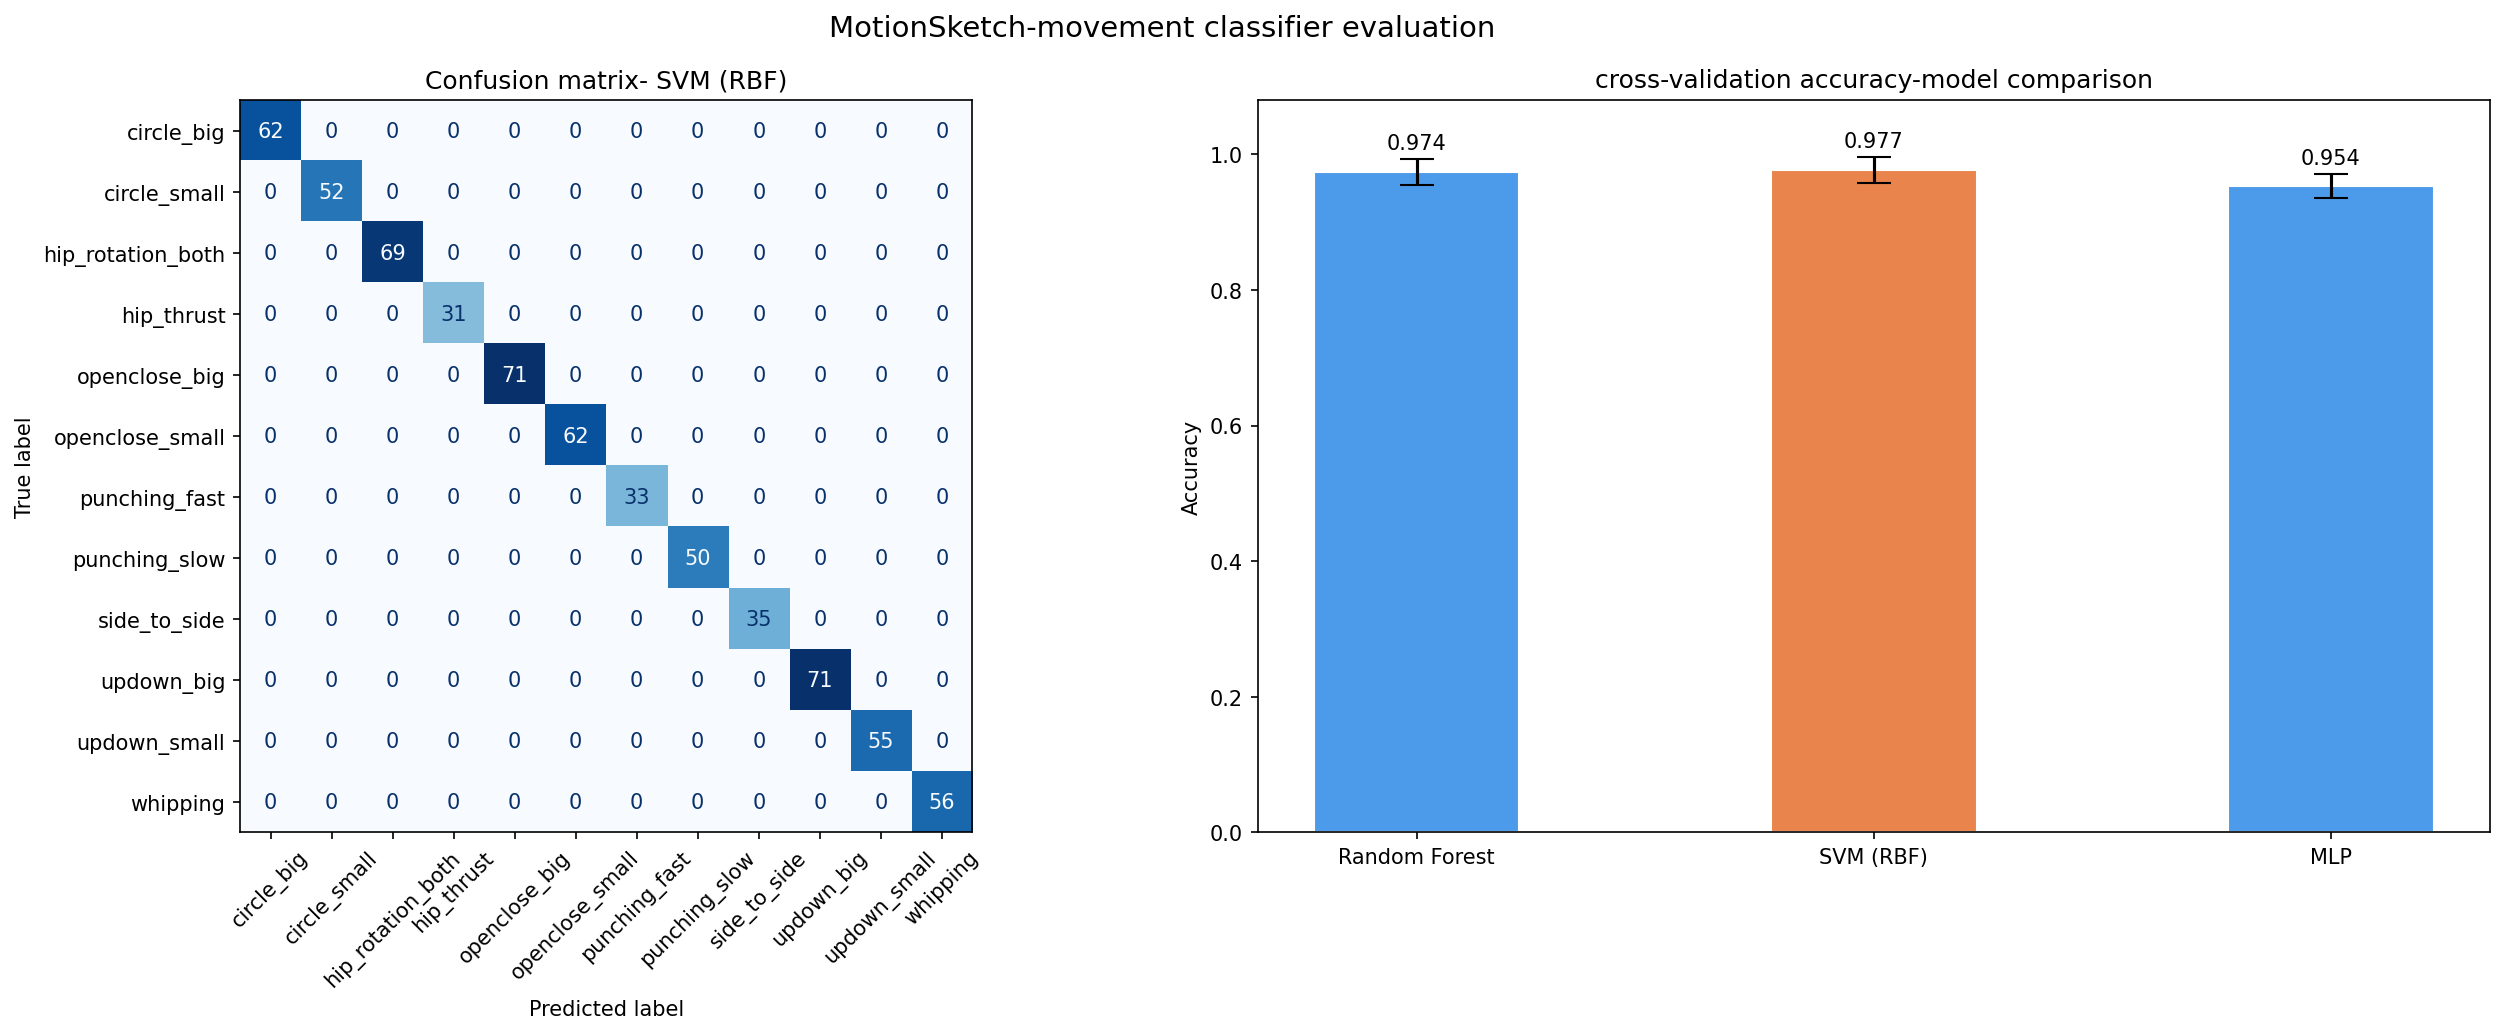
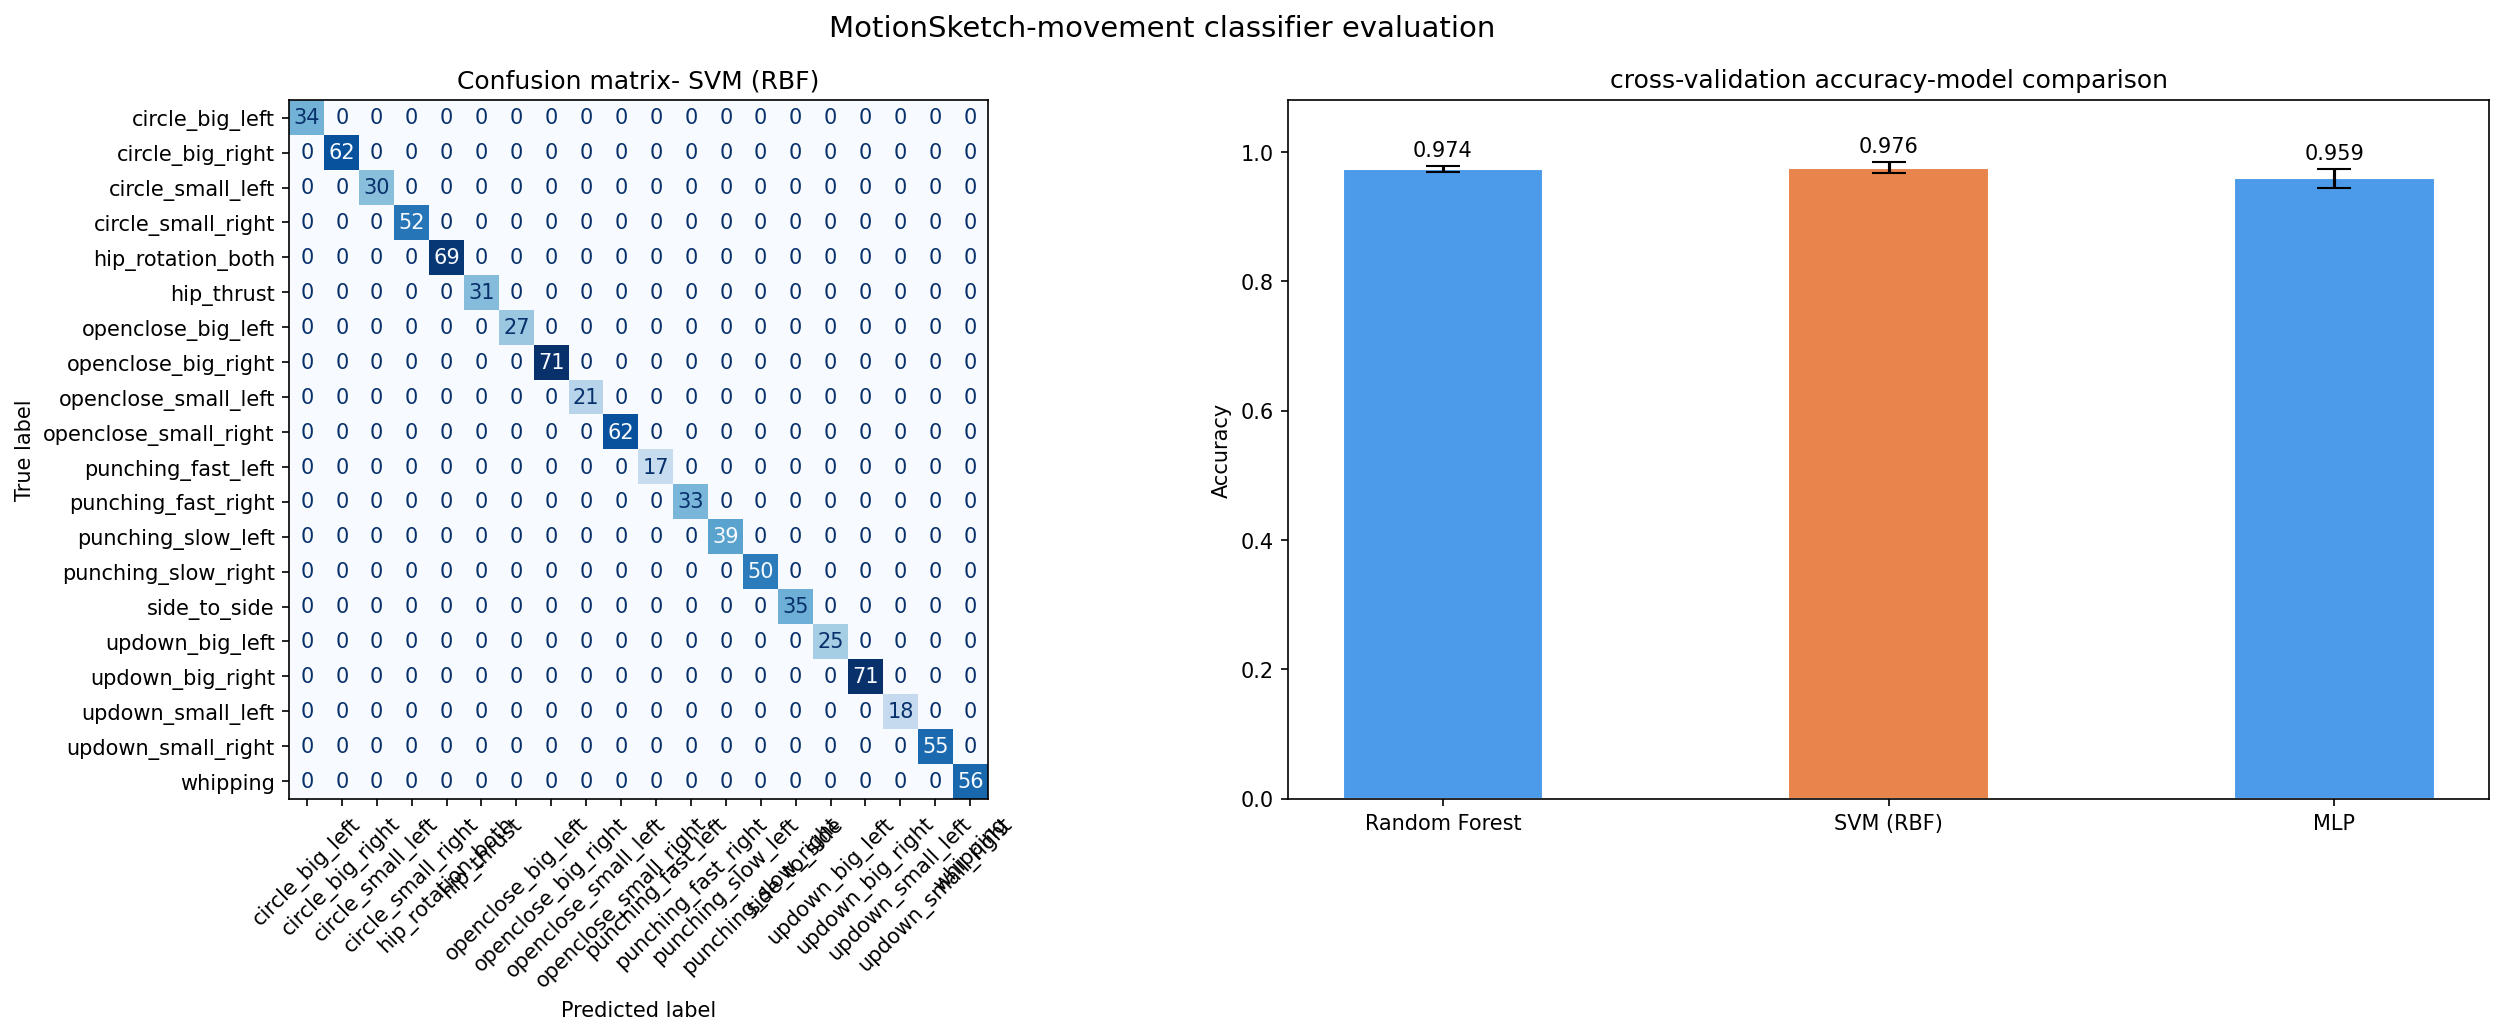
Final Training

diff --git a/PythonParser.py b/PythonParser.py
@@ -3,7 +3,7 @@ import glob
 from sklearn.preprocessing import StandardScaler
 
 # 1. Map the files to labels chronologically
-files = sorted(glob.glob("**\\DOT1_*.csv",recursive=True))
+files = sorted(glob.glob("**\\DOT1*.csv",recursive=True))
 labels = [
     "circle_big_left","circle_big_right", "circle_small_left", "circle_small_right","hip_rotation_both", "hip_thrust", 
     "openclose_big_left","openclose_big_right", "openclose_small_left","openclose_small_right", "punching_fast_left", 